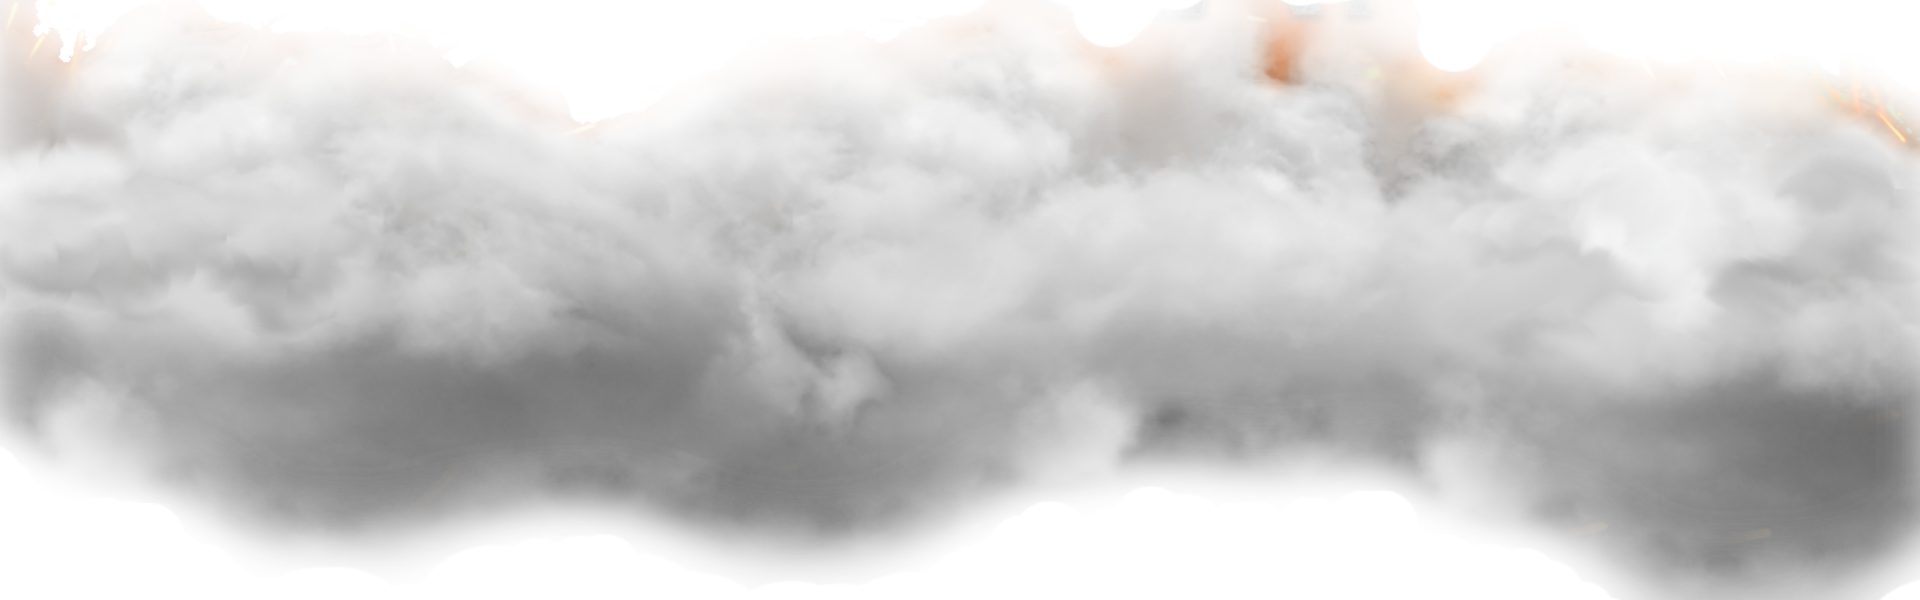
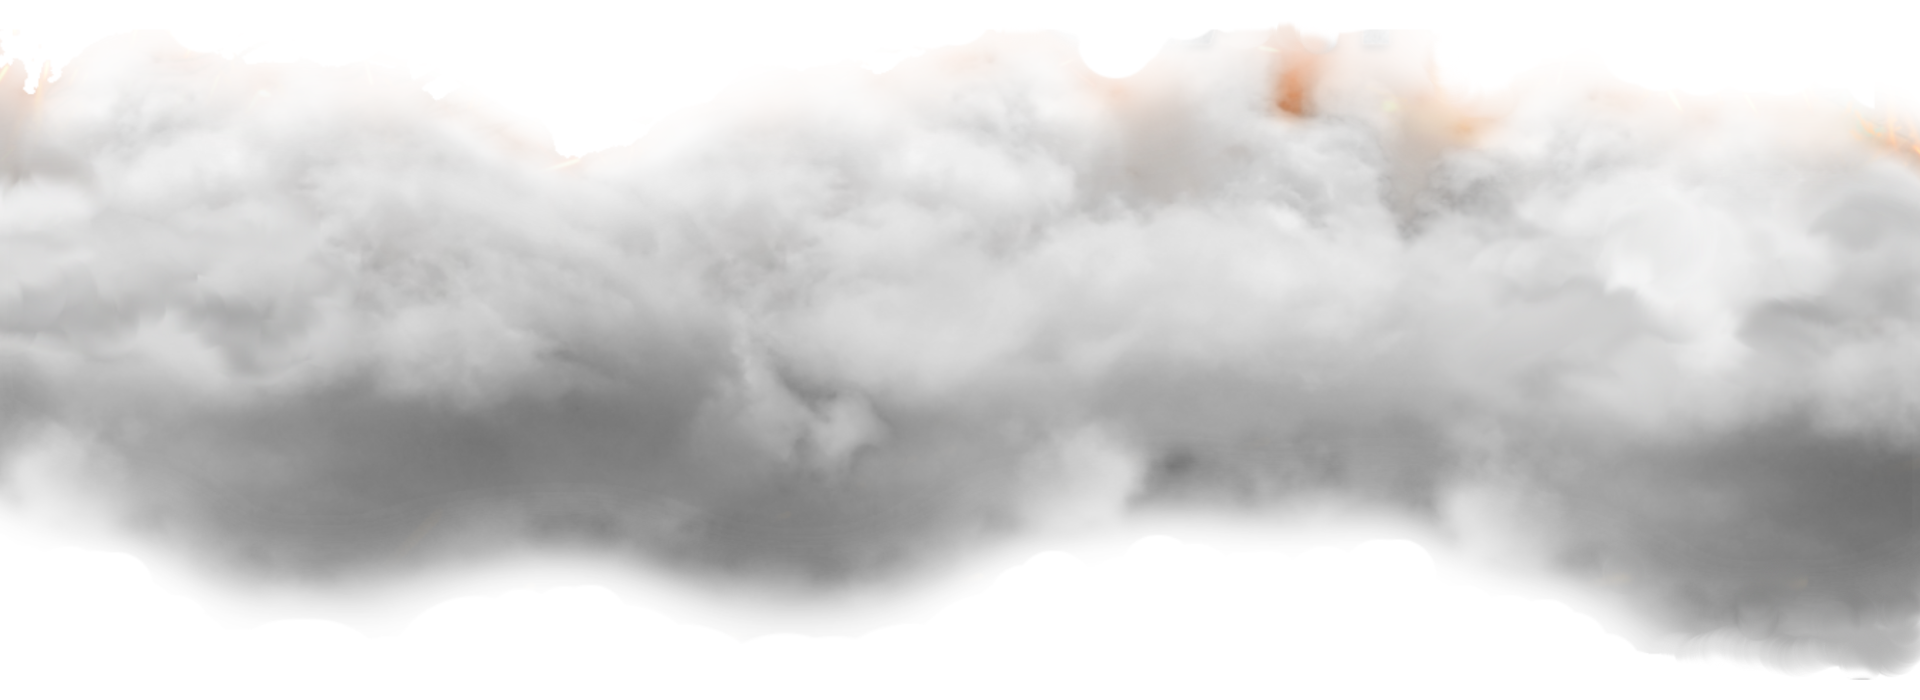
change backgroud color of app, add manifesto title

diff --git a/src/components/Cloud.jsx b/src/components/Cloud.jsx
@@ -1,17 +1,19 @@
 import knife_play from "../assets/images/btn-knife-play.svg";
+import cloud2 from "../assets/images/cloud1.png";
 import discordIcon from "../assets/images/discord_icon.png";
 import faceIcon from "../assets/images/face_icon.png";
 import twitterIcon from "../assets/images/twitter_icon.png";
 export const Cloud = () => {
   const imageIconClass = "w-16 h-16 mx-4";
   return (
-    <div className="flex justify-between itemc-center bg-cloud2 bg-cover h-96  -mt-44 w-full">
-      <div className="flex items-center">
+    <div className="relative flex justify-between itemc-center h-96  -mt-44 w-full z-10">
+      <img className="absolute w-full" src={cloud2} alt="cloud" />
+      <div className="flex items-center z-50 mt-20">
         <img className={imageIconClass} src={faceIcon} alt="Face Book" />
         <img className={imageIconClass} src={twitterIcon} alt="Twitter Book" />
         <img className={imageIconClass} src={discordIcon} alt="Discord Book" />
       </div>
-      <img className="w-40 h-auto" src={knife_play} alt="" />
+      <img className="w-40 h-auto z-50 mt-20" src={knife_play} alt="" />
     </div>
   );
 };

diff --git a/src/App.jsx b/src/App.jsx
@@ -2,14 +2,16 @@ import { useState } from "react";
 import { Cloud } from "./components/Cloud";
 import { Navbar } from "./components/Navbar";
 import { HeroPage } from "./pages/HeroPage";
+import { ManifestoPage } from "./pages/ManifestoPage";
 function App() {
   const [count, setCount] = useState(0);
 
   return (
-    <div className="bg-red-400 flex flex-col items-center overflow-hidden">
+    <div className="bg-[#282828] flex flex-col items-center overflow-hidden">
       <Navbar />
       <HeroPage />
       <Cloud />
+      <ManifestoPage />
     </div>
   );
 }

diff --git a/src/pages/ManifestoPage.jsx b/src/pages/ManifestoPage.jsx
@@ -1,7 +1,8 @@
+import manifesto from "../assets/images/manifesto.png";
 export const ManifestoPage = () => {
   return (
-    <div>
-      <p>This is Manifesto page</p>
+    <div className="flex flex-col z-10 mt-40">
+      <img src={manifesto} alt="manifesto title" />
     </div>
   );
 };
